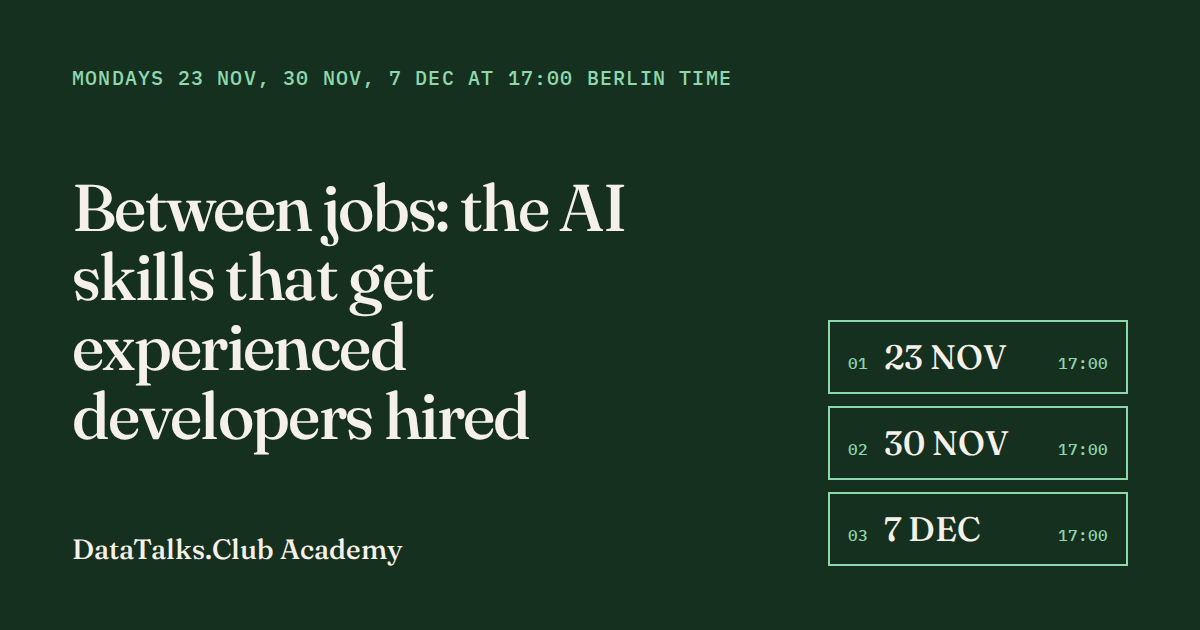
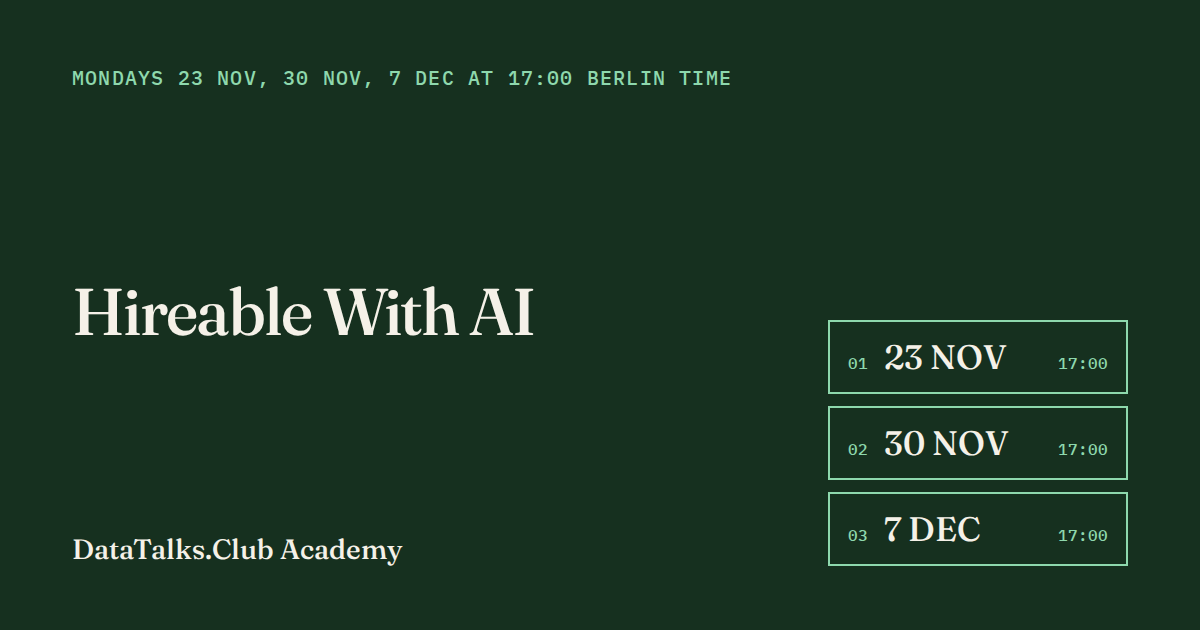
Align P0 Academy facts, session titles and waitlist CTAs

Changed region(s): [[0.0617, 0.2714, 0.5242, 0.7238]]

diff --git a/src/data/sessions.ts b/src/data/sessions.ts
@@ -1,6 +1,6 @@
-// All copy, dates, links and flags for /sessions ("Hireable with AI") live here, so
+// All copy, dates, links and flags for /sessions ("Hireable With AI") live here, so
 // Marketer can swap them in one file. Session titles and descriptions come verbatim from
-// bots-management context/courses/academy/copy-bank/sessions.md (approved 14 November 2026).
+// bots-management context/courses/academy/copy-bank/sessions.md (updated 15 November 2026).
 //
 // Rules: plain copy, no dashes as punctuation.
 //
@@ -10,7 +10,7 @@
 
 export const SOURCE = 'layoff_proof';
 export const CAMPAIGN = 'hireable_with_ai';
-export const SERIES = 'Hireable with AI';
+export const SERIES = 'Hireable With AI';
 
 export type SessionId = 'session-1' | 'session-2' | 'session-3';
 
@@ -44,9 +44,9 @@ export const sessions: Session[] = [
     weekdayDate: 'Monday 23 November',
     startUtc: '20261123T160000Z',
     endUtc: '20261123T170000Z',
-    title: 'AI Engineering vs Agentic Engineering',
-    heroTopic: 'AI Engineering vs Agentic Engineering',
-    shortLabel: 'Mon 23 Nov: AI Engineering vs Agentic Engineering',
+    title: 'AI Engineering vs Agentic Engineering for Experienced Developers',
+    heroTopic: 'AI Engineering vs Agentic Engineering for Experienced Developers',
+    shortLabel: 'Mon 23 Nov: AI Engineering vs Agentic Engineering for Experienced Developers',
     description:
       "AI engineering is building apps that use LLMs, like chatbots, search over documents or agents. Agentic engineering is using tools like Claude Code or Cursor to write and ship code faster.\n\nIn the first 15 to 20 minutes I'll explain:\n\n- how they are different\n- what companies want for each\n- which one to pick if you are a backend, frontend or data person\n- how to get a Bildungsgutschein for your training\n\nThen I'll answer your questions.",
     zoomUrl: 'https://us06web.zoom.us/j/84099607571?pwd=afNorKbnnXre2oWcsOpmrPWWKZEiHj.1',
@@ -59,9 +59,9 @@ export const sessions: Session[] = [
     weekdayDate: 'Monday 30 November',
     startUtc: '20261130T160000Z',
     endUtc: '20261130T170000Z',
-    title: 'Agentic Engineering: How I Build Software with Coding Agents',
-    heroTopic: 'Agentic Engineering: How I Build Software with Coding Agents',
-    shortLabel: 'Mon 30 Nov: Agentic Engineering',
+    title: 'How I Build Software with Claude Code and Other Coding Agents',
+    heroTopic: 'How I Build Software with Claude Code and Other Coding Agents',
+    shortLabel: 'Mon 30 Nov: How I Build Software with Claude Code and Other Coding Agents',
     description:
       "Agentic engineering is using tools like Claude Code or Cursor to write most of the code, while you decide what to build and check the result.\n\nIn the first 15 to 20 minutes I'll explain:\n\n- how my work changed since I started using agents\n- what I still do myself and where agents make mistakes\n- what companies expect from developers who use them\n- how to get a Bildungsgutschein for your training\n\nThen I'll answer your questions.",
     zoomUrl: 'https://us06web.zoom.us/j/86910927132?pwd=kBoaU0pv5ATHmXH5sEyA1k1VMqPdPJ.1',
@@ -74,9 +74,9 @@ export const sessions: Session[] = [
     weekdayDate: 'Monday 7 December',
     startUtc: '20261207T160000Z',
     endUtc: '20261207T170000Z',
-    title: 'AI Engineering: How to Build Apps on Top of LLMs',
-    heroTopic: 'AI Engineering: How to Build Apps on Top of LLMs',
-    shortLabel: 'Mon 7 Dec: AI Engineering',
+    title: 'AI Engineering for Experienced Developers: How to Build Apps on Top of LLMs',
+    heroTopic: 'AI Engineering for Experienced Developers: How to Build Apps on Top of LLMs',
+    shortLabel: 'Mon 7 Dec: AI Engineering for Experienced Developers: How to Build Apps on Top of LLMs',
     description:
       "AI engineering is building products that use LLMs, like chatbots, search over your company's documents or agents that do tasks for users.\n\nIn the first 15 to 20 minutes I'll explain:\n\n- what AI engineers build day to day\n- which skills from backend, frontend or data work you already have\n- what to learn first if you want to move into it\n- how to get a Bildungsgutschein for your training\n\nThen I'll answer your questions.",
     zoomUrl: 'https://us06web.zoom.us/j/89929618442?pwd=xjMMnER39hbJudSCMZ9bUXbCwvwrWI.1',
@@ -92,7 +92,7 @@ export const CHANNELS = ['genau', 'handpicked', '20berlin', 'linkedin', 'x', 'ne
 export type Variant = 'a' | 'b' | 'c';
 
 const approvedHero = {
-  headline: 'Between jobs: the AI skills that get experienced developers hired',
+  headline: 'Hireable With AI',
   subhead:
     "3 free online sessions for developers with 2+ years of experience who were laid off, are in their notice period or are looking for a job. They're for Berlin first, and anyone can join online. I skip the basics and assume you already ship code at work. Mondays 23 Nov, 30 Nov and 7 Dec at 17:00 Berlin time, on Zoom.",
 };
@@ -110,7 +110,7 @@ export function variantFor(utmContent: string | null | undefined): Variant {
 }
 
 export const sessionsPage = {
-  metaTitle: 'Between jobs: the AI skills that get experienced developers hired | DataTalks.Club',
+  metaTitle: 'Hireable With AI: Free Sessions for Experienced Developers | DataTalks.Club',
   metaDescription:
     '3 free online sessions for developers with 2+ years of experience who were laid off, are in their notice period or are looking for a job. Mondays 23 Nov, 30 Nov and 7 Dec at 17:00 Berlin time, on Zoom.',
   eyebrow: 'Free online sessions for developers in Berlin and beyond',
@@ -133,11 +133,11 @@ export const sessionsPage = {
 
   sessionsHeading: 'Three Mondays, 17:00 to 18:00 Berlin time',
   afterSessions:
-    "After the talk and Q&A I spend about ten minutes on the full-time program I'm planning for April 2027 and on how the Bildungsgutschein works. If you're not interested, you can leave before that part.",
+    "After the talk and Q&A I spend about ten minutes on the full-time program starting April 2027 and on how the Bildungsgutschein works. If you're not interested, you can leave before that part.",
 
   whoHeading: 'Who runs the sessions',
   whoText:
-    "I'm Alexey Grigorev. I've worked in software engineering and machine learning for 15 years and have been teaching online since 2020, when I founded DataTalks.Club. Since 2024, 12,755 students have enrolled on our course platform and 1,848 have graduated with certificates across free Zoomcamps on data engineering, machine learning, MLOps, LLMs and AI dev tools. I also wrote Machine Learning Bookcamp.",
+    "I'm Alexey Grigorev. I've worked in software engineering and machine learning for 15 years and have been teaching online since 2020, when I founded DataTalks.Club. I have taught more than 100,000 students in DataTalks.Club courses. I also wrote Machine Learning Bookcamp.",
 
   numbersHeading: 'Numbers behind session 1',
   numbers: [
@@ -229,7 +229,7 @@ export const form = {
 
 export const qrForm = {
   metaTitle: 'Get the recording and materials | DataTalks.Club',
-  metaDescription: 'Leave your email and get the recording and the slides from the Hireable with AI session.',
+  metaDescription: 'Leave your email and get the recording and the slides from the Hireable With AI session.',
   heading: 'Get the recording and materials',
   text: "Leave your email and I'll send you today's recording and the slides from the session.",
   button: 'Send me the recording',

diff --git a/src/data/shared.ts b/src/data/shared.ts
@@ -5,30 +5,29 @@ export const seatCaption = '15 seats, 1 instructor';
 export const contactEmail = 'alexey@datatalks.club';
 
 export const facts: { label: string; value: string }[] = [
-  { label: 'COHORT', value: 'Waitlist open' },
+  { label: 'START', value: 'Start: April 2027' },
   { label: 'FORMAT', value: 'Full-time, live, 3 months (13 weeks)' },
-  { label: 'WHERE', value: 'Berlin (Prenzlauer Berg) or live online' },
+  { label: 'WHERE', value: 'Berlin or live online' },
   { label: 'LANGUAGE', value: 'English' },
   { label: 'SEATS', value: '15' },
-  { label: 'TUITION', value: 'Bildungsgutschein (approval pending) or €9,000 to €10,000 self-pay' },
+  { label: 'TUITION', value: 'Designed for Bildungsgutschein funding (AZAV). €9,000 to €10,000 self-pay' },
 ];
 
 export const heroInstructorLine =
   "I'm Alexey Grigorev. I have taught more than 100,000 students in DataTalks.Club courses.";
 
 export const heroHonesty =
-  'Join the waitlist to hear when the next cohort opens.';
+  'Start: April 2027. Join the waitlist and you hear first when applications open.';
 
 export const instructor = {
   heading: 'I Teach Every Session and Review Every Project',
   paragraphs: [
-    "I'm Alexey Grigorev. I have taught more than 100,000 students in DataTalks.Club courses. I founded DataTalks.Club and created its free Zoomcamps on data engineering, machine learning, MLOps, LLMs and AI dev tools. I also wrote Machine Learning Bookcamp and teach paid cohort courses on Maven.",
+    "I'm Alexey Grigorev. I have taught more than 100,000 students in DataTalks.Club courses. I founded DataTalks.Club and created its free Zoomcamps on data engineering, machine learning, MLOps, LLMs and AI dev tools. I also wrote Machine Learning Bookcamp.",
     "This cohort has 15 seats. I teach every day myself and look at every participant's project every week. There are no teaching assistants and no pre-recorded lectures.",
   ],
   proof: [
     { label: 'DATATALKS.CLUB ON GITHUB', href: 'https://github.com/DataTalksClub' },
     { label: 'MACHINE LEARNING BOOKCAMP', href: 'https://www.manning.com/books/machine-learning-bookcamp' },
-    { label: 'COHORT COURSES ON MAVEN', href: 'https://maven.com/alexey-grigorev' },
   ],
 };
 
@@ -57,7 +56,7 @@ export const syllabus = {
 export const funding = {
   heading: 'How Tuition and the Bildungsgutschein Work',
   paragraphs: [
-    "I'm applying for AZAV certification so the Agentur für Arbeit can cover tuition with a Bildungsgutschein.",
+    "Designed for Bildungsgutschein funding (AZAV).",
     'The voucher and the seat are separate decisions. The Agentur decides whether it pays, and I decide who is in the cohort.',
     'If you pay yourself, the full program costs €9,000 to €10,000.',
   ],
@@ -83,25 +82,25 @@ export const faqHeading = 'Questions';
 export const faq: { q: string; a: string | null }[] = [
   {
     q: 'When does the next cohort start?',
-    a: "There is no active cohort right now. Join the waitlist and I'll write to you when dates open.",
+    a: "Start: April 2027. Join the waitlist and you hear first when applications open.",
   },
   {
     q: 'What do I get for joining the waitlist?',
-    a: 'You get the application before it opens publicly, and updates on dates, format and funding approval. Nothing else, and no obligation.',
+    a: 'You get the application before it opens publicly, and updates on dates, format and funding. Nothing else, and no obligation.',
   },
   { q: 'What do I need to know before I start?', a: null },
   {
     q: 'Will the Agentur für Arbeit pay for it?',
-    a: "That is the plan. I'm applying for AZAV certification so the Agentur für Arbeit can pay with a Bildungsgutschein. Talk to your adviser early.",
+    a: "Designed for Bildungsgutschein funding (AZAV). Talk to your adviser early.",
   },
   { q: 'What does it cost if I pay myself?', a: '€9,000 to €10,000 for the full program.' },
   {
     q: 'Is it online or in Berlin?',
-    a: 'Berlin (Prenzlauer Berg) or live online. In person, it is near S+U Schönhauser Allee. Online, you join live from Germany. The survey after you join asks which one you could attend.',
+    a: 'Berlin or live online. Online, you join live from Germany. The survey after you join asks which one you could attend.',
   },
   {
     q: 'What is the schedule?',
-    a: "Full-time: Monday to Friday, 09:00 to 16:00 Berlin time, live, for 3 months (13 weeks). I'm also considering a part-time version. Tell me in the survey if you need one.",
+    a: "Full-time: Monday to Friday, 09:00 to 16:30 Berlin time, live, for 3 months (13 weeks).",
   },
   {
     q: 'Do I have to live in Germany?',
@@ -119,7 +118,7 @@ export const faq: { q: string; a: string | null }[] = [
 
 export const join = {
   heading: 'Join the Waitlist',
-  text: "Leave your name and email and I'll write to you when the next cohort opens.",
+  text: "Start: April 2027. Join the waitlist and you hear first when applications open.",
 };
 
 export const form = {
@@ -133,10 +132,10 @@ export const form = {
 export const home = {
   metaTitle: 'DataTalks.Club Academy | Live Full-Time Courses with Alexey Grigorev',
   metaDescription:
-    'A full-time, live program for developers who already write code, taught by Alexey Grigorev. Two tracks: Agentic Engineering and AI Engineering. 15 seats, Berlin (Prenzlauer Berg) or live online.',
+    'Full-time live programs in English for experienced developers in Germany: Agentic Engineering and AI Engineering. Designed for Bildungsgutschein funding (AZAV).',
   eyebrow: 'DataTalks.Club Academy',
   headline: 'Live Full-Time Courses in Berlin or Online',
   emphasis: '',
-  lead: "I'm Alexey Grigorev. I'm building full-time, live courses for developers who already write code, in Berlin or online. Pick a track and join its waitlist.",
+  lead: "DataTalks.Club Academy offers full-time live programs in English for developers with 2+ years of experience in Germany, taught by Alexey Grigorev. Two programs: Agentic Engineering and AI Engineering. Start: April 2027.",
   cta: 'Read about the track',
 };

diff --git a/src/data/tracks.ts b/src/data/tracks.ts
@@ -37,12 +37,12 @@ export const tracks: Track[] = [
     surveyOption: 'A. Agentic engineering',
     headline: 'Ship Software with Coding Agents',
     emphasis: '',
-    lead: "Agentic engineering is using tools like Claude Code or Cursor to write most of the code, while you decide what to build and check the result. A 3-month (13-week) full-time course for developers who already write code. 15 seats, taught live by me, Alexey Grigorev.",
+    lead: "Agentic engineering is using tools like Claude Code or Cursor to write most of the code, while you decide what to build and check the result. A 3-month (13-week) full-time course in English for developers with 2+ years of experience in Germany. 15 seats, taught live by me, Alexey Grigorev.",
     basis:
       'This program is based on AI Dev Tools Zoomcamp and my experience running coding agents 24/7 for the last year. I write a lot about that on my Substack.',
     metaTitle: 'Agentic Engineering | DataTalks.Club Academy',
     metaDescription:
-      'Agentic engineering is using tools like Claude Code or Cursor to write most of the code, while you decide what to build and check the result. Full-time, live, 15 seats, taught by Alexey Grigorev. Berlin (Prenzlauer Berg) or live online. Join the waitlist.',
+      'Agentic engineering is using tools like Claude Code or Cursor to write most of the code, while you decide what to build and check the result. Full-time, live, 15 seats, taught by Alexey Grigorev. Berlin or live online. Join the waitlist.',
     outcomesTitle: 'By the end you can run a software project with agents, and answer for the result.',
     outcomes: [
       'Turn a product idea into a spec and a set of small tasks.',
@@ -108,12 +108,12 @@ export const tracks: Track[] = [
     surveyOption: 'B. AI engineering',
     headline: 'Build and Evaluate LLM Applications',
     emphasis: '',
-    lead: "AI engineering is building products that use LLMs, like chatbots, search over your company's documents or agents that do tasks for users. A 3-month (13-week) full-time course for developers who already write code. 15 seats, taught live by me, Alexey Grigorev.",
+    lead: "AI engineering is building products that use LLMs, like chatbots, search over your company's documents or agents that do tasks for users. A 3-month (13-week) full-time course in English for developers with 2+ years of experience in Germany. 15 seats, taught live by me, Alexey Grigorev.",
     basis:
       'This program is based on LLM Zoomcamp, AI Engineering Buildcamp, and my experience building AI products and putting them in production.',
     metaTitle: 'AI Engineering | DataTalks.Club Academy',
     metaDescription:
-      "AI engineering is building products that use LLMs, like chatbots, search over your company's documents or agents that do tasks for users. Full-time, live, 15 seats, taught by Alexey Grigorev. Berlin (Prenzlauer Berg) or live online. Join the waitlist.",
+      "AI engineering is building products that use LLMs, like chatbots, search over your company's documents or agents that do tasks for users. Full-time, live, 15 seats, taught by Alexey Grigorev. Berlin or live online. Join the waitlist.",
     outcomesTitle: 'By the end you can build an AI application, and show where it works and where it fails.',
     outcomes: [
       'Build an assistant in Python on an LLM API.',

diff --git a/tests/sessions.spec.ts b/tests/sessions.spec.ts
@@ -2,7 +2,7 @@ import { test, expect } from '@playwright/test';
 import { existsSync, readFileSync } from 'node:fs';
 import { mockApi } from './helpers';
 
-const APPROVED_HEADLINE = 'Between jobs: the AI skills that get experienced developers hired';
+const APPROVED_HEADLINE = 'Hireable With AI';
 
 const H = {
   a: APPROVED_HEADLINE,
@@ -50,8 +50,8 @@ test('page copy has no placeholders, no dashes as punctuation and no live-coding
   expect(text).not.toContain('·');
   expect(text).not.toMatch(/live coding|live demo|hands-on|merged pull request|build live|one-hour/i);
   expect(text).toContain('AI Engineering vs Agentic Engineering');
-  expect(text).toContain('Agentic Engineering: How I Build Software with Coding Agents');
-  expect(text).toContain('AI Engineering: How to Build Apps on Top of LLMs');
+  expect(text).toContain('How I Build Software with Claude Code and Other Coding Agents');
+  expect(text).toContain('AI Engineering for Experienced Developers: How to Build Apps on Top of LLMs');
   expect(text.match(/how to get a Bildungsgutschein for your training/g)).toHaveLength(3);
   await page.goto('sessions/materials/');
   const qr = await page.locator('main').innerText();
@@ -165,8 +165,8 @@ test('QR form without a valid session does not post', async ({ page }) => {
 test('ics files carry the per-session Zoom link and the right times', async ({ request, baseURL }) => {
   const zoom = {
     'session-1': ['84099607571', '20261123T160000Z', 'AI Engineering vs Agentic Engineering'],
-    'session-2': ['86910927132', '20261130T160000Z', 'Agentic Engineering: How I Build Software with Coding Agents'],
-    'session-3': ['89929618442', '20261207T160000Z', 'AI Engineering: How to Build Apps on Top of LLMs'],
+    'session-2': ['86910927132', '20261130T160000Z', 'How I Build Software with Claude Code and Other Coding Agents'],
+    'session-3': ['89929618442', '20261207T160000Z', 'AI Engineering for Experienced Developers: How to Build Apps on Top of LLMs'],
   } as const;
   for (const [id, [meeting, start, title]] of Object.entries(zoom)) {
     const res = await request.get(`${baseURL}sessions/${id}.ics`);
@@ -174,7 +174,7 @@ test('ics files carry the per-session Zoom link and the right times', async ({ r
     const body = (await res.text()).replace(/\r\n /g, '');
     expect(body).toContain('BEGIN:VCALENDAR');
     expect(body).toContain(`DTSTART:${start}`);
-    expect(body).toContain(`SUMMARY:Hireable with AI #`);
+    expect(body).toContain(`SUMMARY:Hireable With AI #`);
     expect(body).toContain(title);
     expect(body).toContain(`zoom.us/j/${meeting}`);
     expect(body).not.toMatch(/live coding|live demo|hands-on|merged pull request/i);

diff --git a/tests/site.spec.ts b/tests/site.spec.ts
@@ -142,8 +142,8 @@ test('AZAV, length and location copy stays positive and consistent', async ({ pa
     const text = await page.locator('body').innerText();
     expect(text, t).toContain('Full-time, live, 3 months (13 weeks)');
     expect(text, t).toContain('for 3 months (13 weeks)');
-    expect(text, t).toContain("I'm applying for AZAV certification so the Agentur für Arbeit can pay with a Bildungsgutschein.");
-    expect(text.match(/Berlin \(Prenzlauer Berg\) or live online/g)?.length, t).toBeGreaterThanOrEqual(2);
+    expect(text, t).toContain("Designed for Bildungsgutschein funding (AZAV).");
+    expect(text.match(/Berlin or live online/g)?.length, t).toBeGreaterThanOrEqual(2);
   }
 });
 
@@ -161,4 +161,16 @@ test('sitemap.xml and robots.txt list all public pages under the base path', asy
   expect(robotsRes.status()).toBe(200);
   const robots = await robotsRes.text();
   expect(robots).toContain(`Sitemap: ${origin}${path}sitemap.xml`);
+});
+
+test('home waitlist submits the chosen program and canonical facts are visible', async ({ page }) => {
+  const api = await mockApi(page);
+  await page.goto('');
+  await expect(page.locator('#facts')).toContainText('Start: April 2027');
+  await expect(page.locator('#funding')).toContainText('Designed for Bildungsgutschein funding (AZAV).');
+  await page.selectOption('[name=program]', 'ai-engineering');
+  await page.fill('#email-hero', 'test@example.com');
+  await page.click('#signup-hero button[type=submit]');
+  await expect(page.locator('#signup-hero [data-success]')).toBeVisible();
+  expect(api.signups[0].postDataJSON().track).toBe('ai-engineering');
 });

diff --git a/src/scripts/signup.ts b/src/scripts/signup.ts
@@ -13,7 +13,7 @@ const TRACK_OPTION: Record<string, string> = {
 const SURVEY =
   'https://docs.google.com/forms/d/e/1FAIpQLSdl4f48ZsEV_9VBjUD8dHTHm9qMddnW75_2P7Uj5B6hC1IInQ/viewform?usp=pp_url';
 
-const track = document.body.dataset.track || '';
+let track = document.body.dataset.track || '';
 const $$ = <T extends HTMLElement>(sel: string, root: ParentNode = document) =>
   Array.from(root.querySelectorAll<T>(sel));
 
@@ -164,6 +164,7 @@ for (const el of signups) {
     button.disabled = true;
     button.textContent = 'Joining…';
 
+    track = form.querySelector<HTMLSelectElement>('[name=program]')?.value || track;
     const ok = await post('/signup', {
       email,
       name,
